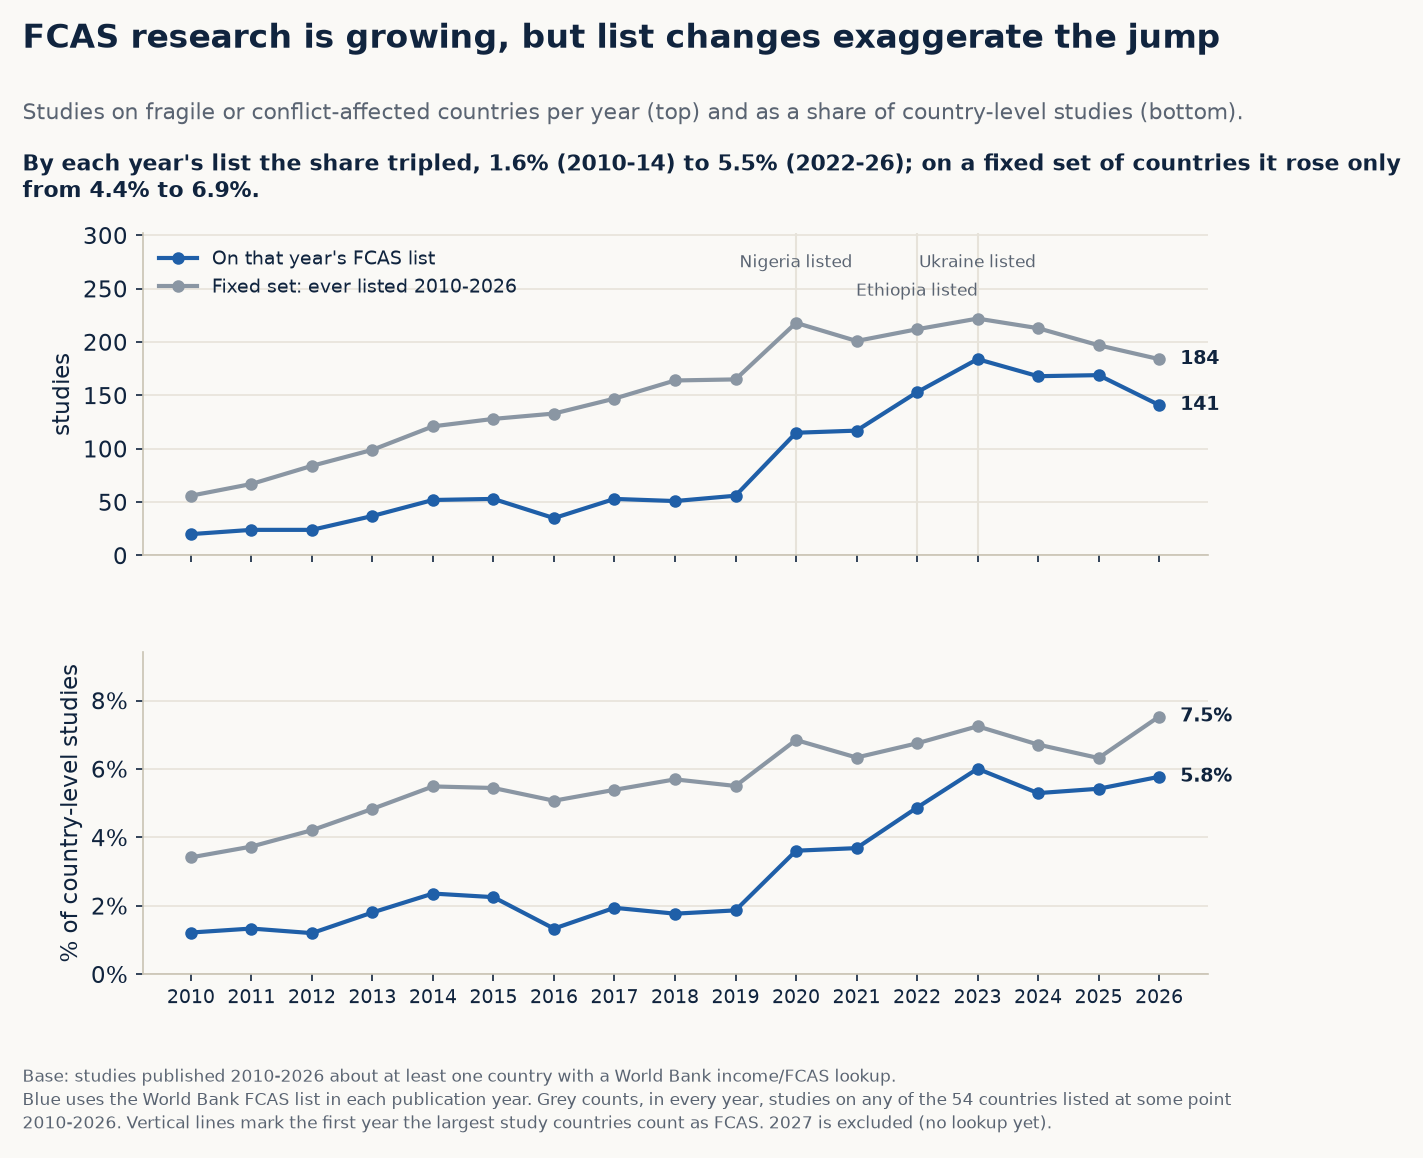
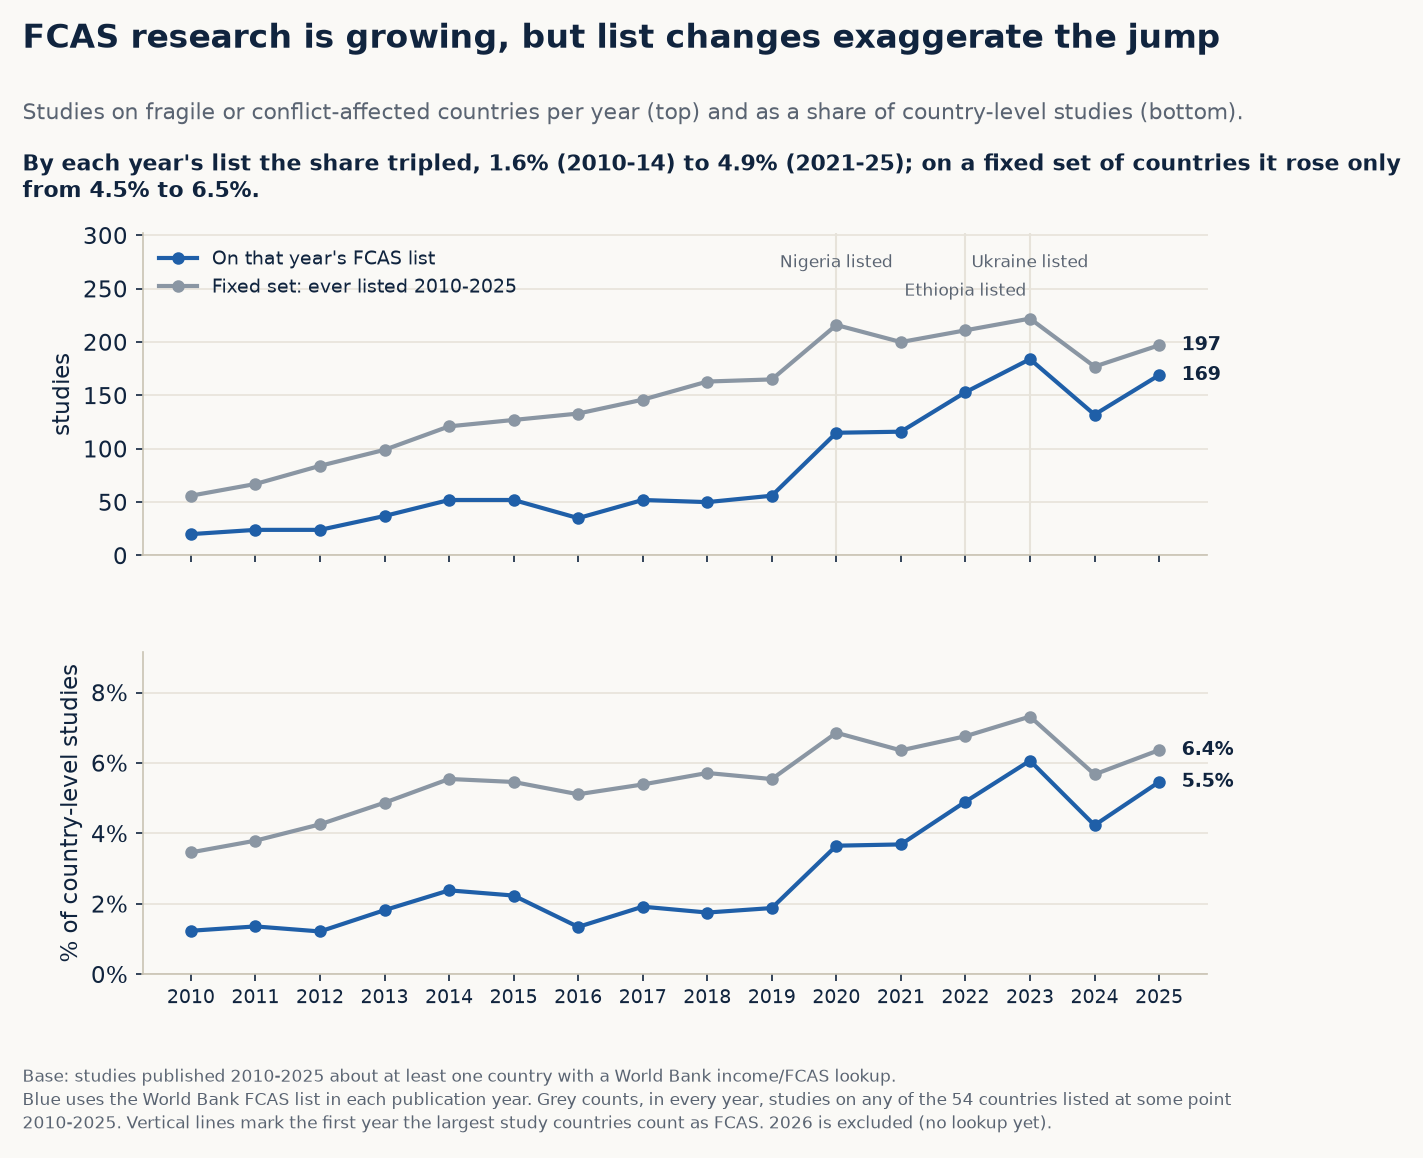
FCAS figures: use publication-year income groups again
The v2.2 adapter puts the current income group in income_level, so the
FCAS-vs-income-settings figure had switched to current groups while its
footnote said publication year. build_fcas_outcomes_v2_2.py now reads
income_level_bundled (the publication-year lookup, as v5 did); the three
FCAS figures are rebuilt. Methods tab and DATA_GAPS_v2_2.md updated.

diff --git a/docs/index.html b/docs/index.html
@@ -457,8 +457,9 @@
                       <a href="https://unstats.un.org/unsd/methodology/m49/" target="_blank" rel="noopener">UN M49 regions</a> and
                       <a href="https://data.worldbank.org/indicator/SP.POP.TOTL" target="_blank" rel="noopener">World Bank population data</a>.
                       Some countries changed World Bank income group during 2010–2026. The Explorer's income filter and
-                      income breakdowns use each study country's group in the study's publication year; country profiles,
-                      maps and the Thematic analysis figures use the current (FY2027) group.</td></tr>
+                      income breakdowns use each study country's group in the study's publication year, as do the
+                      fragile and conflict-affected settings figures (which also use each year's FCAS list); country
+                      profiles, maps and the other Thematic analysis figures use the current (FY2027) group.</td></tr>
               <tr><td>Disease burden and health-financing context</td>
                   <td><a href="https://www.healthdata.org/research-analysis/gbd" target="_blank" rel="noopener">IHME Global Burden of Disease 2023</a> and
                       <a href="https://www.healthdata.org/data-tools-practices/interactive-visuals/financing-global-health" target="_blank" rel="noopener">IHME Financing Global Health</a>.</td></tr>

diff --git a/docs/dex_hff/build_fcas_outcomes_v2_2.py b/docs/dex_hff/build_fcas_outcomes_v2_2.py
@@ -7,7 +7,10 @@ without it.
 
 v5 fields used:
   fcas                  geo countries on the WB FCAS list in the publication year ('; '-sep)
-  income_level          WB income group per geo country (LIC / LMIC / MIC = upper-middle / HIC)
+  income_level_bundled  WB income group per geo country in the publication year (LIC / LMIC /
+                        MIC = upper-middle / HIC). v2.2 keeps the current group in income_level
+                        (make_v2_2_csv.py recodes it); the publication-year one is this column,
+                        the same lookup as fcas, which is what v5's income_level held.
   outcome_domain_final  multi-label outcome domains ('; '-sep)
   outcome_other_theme   non-LLM theme for studies tagged 'Other' ('; '-sep)
 
@@ -117,12 +120,12 @@ def save(fig, fname):
 
 
 df = pd.read_csv(V4, low_memory=False, dtype=str,
-                   usecols=["record_id", "year", "fcas", "income_level", "outcome_domain_final",
+                   usecols=["record_id", "year", "fcas", "income_level_bundled", "outcome_domain_final",
                             "outcome_other_theme"])
 df["year"] = pd.to_numeric(df["year"], errors="coerce").astype("Int64")
 N = len(df)
 df["fcas_list"] = df["fcas"].map(lambda v: sorted({COUNTRY_ALIASES.get(c, c) for c in split(v)}))
-df["income_list"] = df["income_level"].map(lambda v: sorted(set(split(v))))
+df["income_list"] = df["income_level_bundled"].map(lambda v: sorted(set(split(v))))
 df["outcomes"] = df["outcome_domain_final"].map(lambda v: sorted(set(split(v))))
 df["is_fcas"] = df["fcas_list"].map(bool)
 # FCAS and income group are both looked up per geo country per publication year,

diff --git a/DATA_GAPS_v2_2.md b/DATA_GAPS_v2_2.md
@@ -114,10 +114,13 @@ countries in the map; about 5% of single-country studies would be grouped differ
   `docs/data/geo.json`, built by `build_data_v2_2.py`). That field lists the distinct groups of
   the countries a study names, not one per country, so where it is empty or lists several
   groups, the country's current group is used instead (5,243 of 48,002 pairs).
-- **Country profiles, peer comparisons, maps and the Thematic analysis figures:** the current
-  (FY2027) group, one per country. The Methods tab says so.
-- **Open:** moving the income-based figures to publication-year groups (the income bar, the
-  L&MICs share over time, FCAS by context and the burden-by-income figures) is not done yet.
+- **Fragile & conflict-affected settings figures:** publication year too, as in v5: each year's
+  World Bank FCAS list and income group (`fcas` and `income_level_bundled`, read by
+  `build_fcas_outcomes_v2_2.py`).
+- **Country profiles, peer comparisons, maps and the other Thematic analysis figures:** the
+  current (FY2027) group, one per country. The Methods tab says so.
+- **Open:** moving the other income-based figures to publication-year groups (for example the
+  income bar, the L&MICs share over time and the burden-by-income figures) is not done yet.
 
 ## How to rebuild
 
